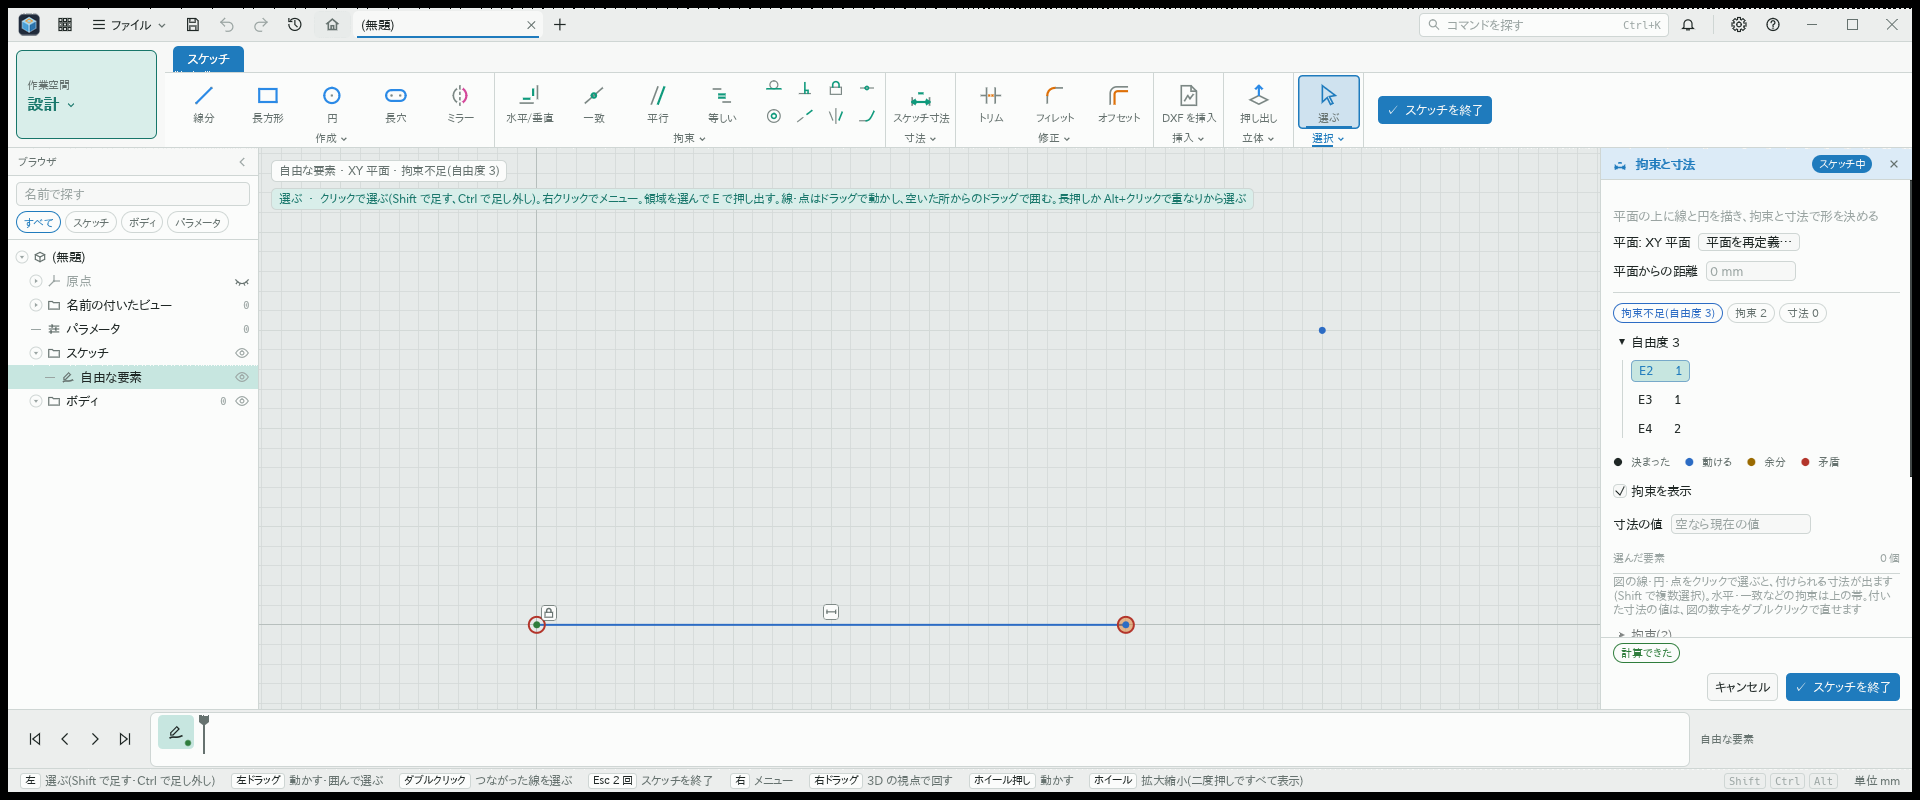
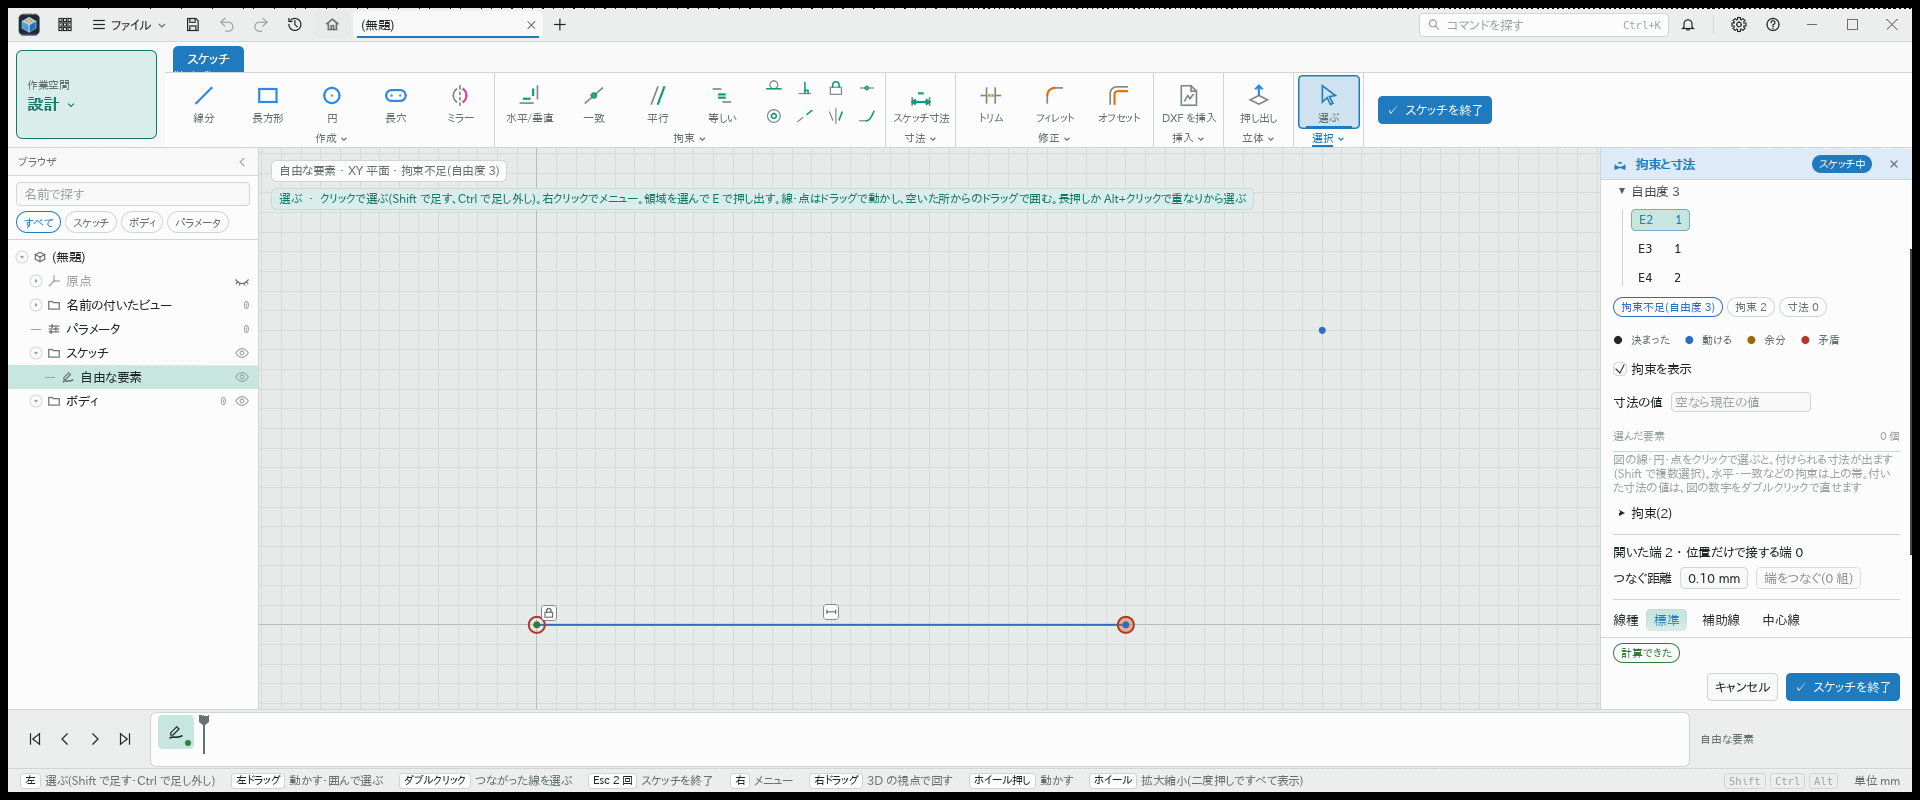
自由度の一覧を状態の札から開き既存の配置を保つ

Changed region(s): [[0.8438, 0.2188, 1.0, 0.8125]]

diff --git a/crates/kmb-ui-sketch/src/freedom_ui.rs b/crates/kmb-ui-sketch/src/freedom_ui.rs
@@ -5,6 +5,7 @@ use kmb_sketch::{EntityId, FreedomReport, Sketch, Solution, SolveStatus};
 #[derive(Default)]
 pub(crate) struct State {
     pub open: bool,
+    pub reveal: bool,
     pub hovered: Option<EntityId>,
     pub picked: Option<EntityId>,
     cache: Option<Cache>,
@@ -46,6 +47,13 @@ impl State {
     }
 }
 
+/// 専用の表示欄の宣言。文書に値を持たないため、汎用のデータの欄には登録しない。
+pub(crate) fn field(ctx: &egui::Context) -> kmb_core::Field {
+    let field = kmb_core::Field::info("freedom", "自由度")
+        .help("全体の自由度と、自由な要素の番号・自由度を表示します。行にかざすと光り、クリックすると強調が残ります。同じ動きを共有する要素があるので、各行の数は合計できません。");
+    kmb_ui::translated_field(ctx, kmb_sketch::SKETCH, &field)
+}
+
 pub(crate) fn panel(
     ui: &mut egui::Ui,
     state: &mut State,
@@ -53,6 +61,10 @@ pub(crate) fn panel(
     sol: &Solution,
     values: Option<&DimValues>,
 ) {
+    if !state.open {
+        state.hovered = None;
+        return;
+    }
     ui.scope(|ui| {
         if ui.clip_rect().height() < kmb_ui::theme::fs(80.0) {
             // 狭い表示範囲では、見出しと少なくとも 1 行を読めるように余白だけを縮める。
@@ -77,8 +89,7 @@ fn contents(
         state.picked = None;
         return;
     };
-    let field =
-        kmb_ui::translated_field(ui.ctx(), kmb_sketch::SKETCH, &kmb_sketch::freedom_field());
+    let field = field(ui.ctx());
     let panel_bottom = ui.clip_rect().bottom();
     let response = egui::CollapsingHeader::new(format!("{} {}", field.label, sol.dof))
         .id_salt(kmb_ui::doc_id(ui.ctx(), "sketch-freedom-list"))
@@ -131,6 +142,13 @@ fn contents(
                     }
                 });
         });
+    if state.reveal {
+        ui.scroll_to_rect(response.header_response.rect, Some(egui::Align::Min));
+        if response.fully_open() {
+            state.reveal = false;
+        }
+        ui.ctx().request_repaint();
+    }
     response
         .header_response
         .widget_info(|| egui::WidgetInfo::labeled(egui::WidgetType::Button, true, &field.label));

diff --git a/crates/kmb-ui-sketch/src/freedom_ui_tests.rs b/crates/kmb-ui-sketch/src/freedom_ui_tests.rs
@@ -92,7 +92,12 @@ fn mcp_ui_tools_open_pick_and_hover_free_entities_without_changing_the_document(
     let (mut h, line, point, dir) = fixture("ja", true);
     let before = h.state().document().to_json();
     assert!(!line_is_lit(&h));
-    app(&mut h, &dir.0, "ui_click", json!({"target":"自由度"}));
+    app(
+        &mut h,
+        &dir.0,
+        "ui_click",
+        json!({"target":"拘束不足(自由度 3)"}),
+    );
     let row = format!("{line}   1");
     app(&mut h, &dir.0, "ui_click", json!({"target":row}));
     app(
@@ -123,7 +128,7 @@ fn the_read_only_freedom_field_uses_the_selected_language() {
         &mut h,
         &dir.0,
         "ui_click",
-        json!({"target":"Degrees of freedom"}),
+        json!({"target":"拘束不足(自由度 3)"}),
     );
     app(
         &mut h,
@@ -131,6 +136,7 @@ fn the_read_only_freedom_field_uses_the_selected_language() {
         "ui_expect",
         json!({"target":format!("{line}   1"),"state":"exists"}),
     );
+    assert!(h.query_by_label("Degrees of freedom").is_some());
     assert!(h.query_by_label("自由度").is_none());
     h.state_mut().live_disconnect();
     drop(h);
@@ -140,7 +146,7 @@ fn the_read_only_freedom_field_uses_the_selected_language() {
 fn the_picked_free_line_is_also_highlighted_after_turning_to_3d() {
     let (mut h, line, _, _dir) = fixture("ja", false);
     let before = h.state().document().to_json();
-    let script = format!("click \"自由度\"\nclick \"{line}   1\"");
+    let script = format!("click \"拘束不足(自由度 3)\"\nclick \"{line}   1\"");
     let batch = h.state_mut().run_script(&script).unwrap();
     let start = std::time::Instant::now();
     loop {
@@ -173,7 +179,10 @@ fn freedom_rows_remain_readable_in_the_visible_panel_at_large_text_scale() {
         h.state_mut().layout_mut().appearance.icon_scale = 2.5;
         h.set_size(egui::vec2(width, 800.0));
         h.run_steps(16);
-        let batch = h.state_mut().run_script("click \"自由度\"").unwrap();
+        let batch = h
+            .state_mut()
+            .run_script("click \"拘束不足(自由度 3)\"")
+            .unwrap();
         let start = std::time::Instant::now();
         loop {
             h.step();

diff --git a/crates/kmb-ui-sketch/src/constraints_ui.rs b/crates/kmb-ui-sketch/src/constraints_ui.rs
@@ -564,9 +564,31 @@ pub(crate) fn constraint_panel(
             )
             .on_hover_text(&status)
         } else {
-            theme::chip(ui, &status, Some(color))
+            theme::chip(ui, &status, Some(color)).interact(egui::Sense::click())
         };
-        response.widget_info(|| egui::WidgetInfo::labeled(egui::WidgetType::Label, true, &status));
+        let can_show_freedom = !matches!(sol.status, SolveStatus::Inconsistent { .. });
+        response.widget_info(|| {
+            egui::WidgetInfo::labeled(
+                if can_show_freedom {
+                    egui::WidgetType::Button
+                } else {
+                    egui::WidgetType::Label
+                },
+                true,
+                &status,
+            )
+        });
+        if can_show_freedom {
+            if response.clicked() {
+                editor.freedom.open = !editor.freedom.open;
+                editor.freedom.reveal = editor.freedom.open;
+                ui.ctx().request_repaint();
+            }
+            let field = crate::freedom_ui::field(ui.ctx());
+            response
+                .on_hover_text(field.help)
+                .on_hover_cursor(egui::CursorIcon::PointingHand);
+        }
         theme::chip(
             ui,
             &format!("拘束 {}", sketch.constraints.len() - dims),
@@ -574,7 +596,6 @@ pub(crate) fn constraint_panel(
         );
         theme::chip(ui, &format!("寸法 {dims}"), None);
     });
-    crate::freedom_ui::panel(ui, &mut editor.freedom, sketch, sol, values);
     ui.add_space(4.0);
     ui.horizontal_wrapped(|ui| {
         for (c, t) in [

diff --git a/crates/kmb-sketch/src/lib.rs b/crates/kmb-sketch/src/lib.rs
@@ -125,7 +125,6 @@ pub fn register(reg: &mut Registry) {
             .retarget(kmb_core::Retarget::Plane {
                 key: "plane".into(),
             })
-            .field(freedom_field())
             .no_raw_editor(),
         |d| {
             let s: Sketch = serde_json::from_value(d.clone())
@@ -133,12 +132,6 @@ pub fn register(reg: &mut Registry) {
             Ok(Box::new(s))
         },
     );
-}
-
-/// 専用の編集器で、解から求めた自由度を表示する読み取り専用の欄。文書へ値は保存しない。
-pub fn freedom_field() -> kmb_core::Field {
-    kmb_core::Field::info("freedom","自由度")
-        .help("全体の自由度と、自由な要素の番号・自由度を表示します。行にかざすと光り、クリックすると強調が残ります。同じ動きを共有する要素があるので、各行の数は合計できません。")
 }
 
 /// 出力の値から輪郭を取り出す。

diff --git a/crates/kmb-ui-sketch/src/lib.rs b/crates/kmb-ui-sketch/src/lib.rs
@@ -1352,6 +1352,13 @@ impl FeatureEditor for SketchEditor {
         .map(to_value);
         // 選んだボディの辺や角(まだ写していない物)は、ここで仮に写してパネルの相手にする。
         // パネルで何かを付けた時だけ文書に入る(網羅版 G10)
+        crate::freedom_ui::panel(
+            ui,
+            &mut self.editor.freedom,
+            &sketch,
+            &solution,
+            values.as_ref(),
+        );
         let saved = self.editor.selection.clone();
         let (sketch, solution) = self.with_selected_refs(&sketch, &solution, values.as_ref());
         let out = constraints_ui::constraint_panel(

diff --git a/docs/機能/2026-10-31-自由な要素と自由度の一覧-cdx168.md b/docs/機能/2026-10-31-自由な要素と自由度の一覧-cdx168.md
@@ -14,10 +14,10 @@
 
 各要素の自由度は、その要素を形づくる変数をすべて固定した時に増える拘束行列の階数で数える。既存の疎な分解を使い、解く方法は変えない。円周上を回転だけできる点は、x と y が変わっても自由度 1 になる。要素が同じ動きを共有するので、各行の数を合計して全体の自由度にはしない。自由度 0 の要素は一覧に入れない。
 
-一覧を開いた時だけ数え、スケッチ・解・寸法の値が同じ間は結果を使い回す。矛盾した拘束がある間は一覧を出さず、既存の診断を表示する。欄の名前と説明は記述子の読み取り専用の情報として宣言し、表示言語の訳を引く。文書の保存形式と解の出力形式は変えない。
+一覧を開いた時だけ数え、スケッチ・解・寸法の値が同じ間は結果を使い回す。矛盾した拘束がある間は一覧を出さず、既存の診断を表示する。欄の名前と説明は専用の表示欄として宣言し、既存の欄の翻訳を使う。値を文書に持たないので、汎用のデータの欄には登録しない。文書の保存形式と解の出力形式は変えない。
 
 見えているパネルが低い時は、文字の大きさを保って、この欄の上下の余白を縮める。少なくとも 1 行を表示し、ほかの行は欄の中をスクロールして読めるようにする。
 
 ## 試し方
 
-一部を拘束したスケッチを編集し、「自由度」を開く。行にかざすか押して、対応する要素が光ることを確かめる。右ドラッグで視点を回しても強調が残り、欄を閉じると消える。画面への `ui_click`・`ui_expect` の要求を使う通しの試験でも確かめる。
+一部を拘束したスケッチを編集し、状態の「拘束不足(自由度 N)」の札を押して一覧を開く。行にかざすか押して、対応する要素が光ることを確かめる。右ドラッグで視点を回しても強調が残り、欄を閉じると消える。画面への `ui_click`・`ui_expect` の要求を使う通しの試験でも確かめる。
